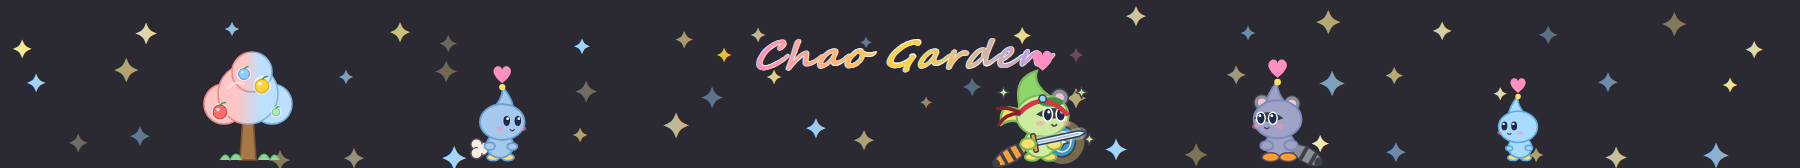
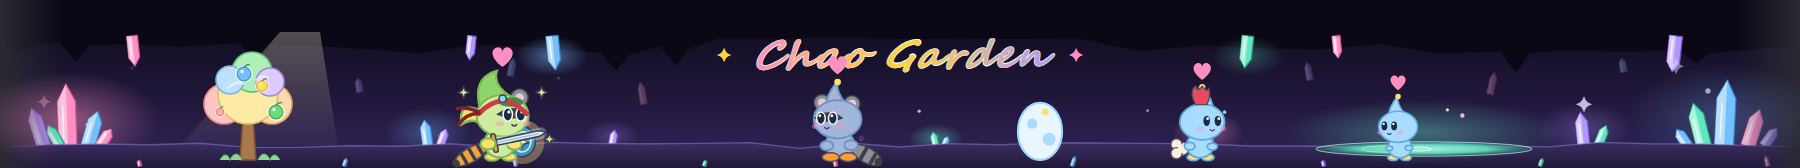
Crystal cave garden (1.1.0)
The chao now live in a glowing crystal cave instead of on plain stars:
soft-lit crystal clusters, a light beam on the fruit tree, a glowing
pool, drips of light and rising motes. The scenery is one picture built
once (hooks/scenery.ts), with about as many moving parts as the old stars.

diff --git a/hooks/scenery.ts b/hooks/scenery.ts
@@ -1,0 +1,264 @@
+// The place the chao live in, drawn behind everything else in the band: one 900 x 84 picture, built once and never
+// redrawn (see the flicker rule). Only about y 20 to 80 shows; the chao stand with their feet on y 80, so the floor's
+// top edge sits a little above that and they walk on it.
+//
+// The Neutral garden: a glowing crystal cave. Pink, blue, purple and aqua crystals glow softly from the walls and
+// floor, a few hang from the ceiling and drip light now and then, a pool glows on the right, a soft beam of light
+// falls on the fruit tree through a crack, and tiny motes of light float up. The middle (where fights play and the
+// title sits) is kept low and quiet.
+
+const W = 900
+const H = 84
+// the floor's top edge: the crystals' bases tuck behind it
+const FLOOR = 72
+
+type Hue = { light: string; mid: string; dark: string }
+const PINK: Hue = { light: '#ffd1e6', mid: '#ff8fc0', dark: '#c95a91' }
+const BLUE: Hue = { light: '#cfe8ff', mid: '#74c0fc', dark: '#3f7fc4' }
+const PURPLE: Hue = { light: '#e5dbff', mid: '#b197fc', dark: '#7650d0' }
+const AQUA: Hue = { light: '#c3fae8', mid: '#63e6be', dark: '#24a07c' }
+
+const n = (v: number) => Math.round(v * 10) / 10
+
+// Deterministic pseudo-random, so the picture is the same every time it is built.
+const rand = (i: number) => {
+  const x = Math.sin(i * 7919 + 1013) * 104729
+  return x - Math.floor(x)
+}
+
+// One crystal: a six-sided prism standing on (x, y), `h` tall and `w` wide, tilted by `tilt` degrees, with a lit left
+// face, a shaded right face and a bright edge. `down` hangs it from the ceiling instead.
+const crystal = (x: number, y: number, h: number, w: number, tilt: number, c: Hue, down = false) => {
+  const s = down ? -1 : 1
+  const shoulder = h * 0.72
+  const half = w / 2
+  const body = `M${-half},0 L${-half},${n(-shoulder * s)} L0,${n(-h * s)} L${half},${n(-shoulder * s)} L${half},0 Z`
+  const lit = `M${-half},0 L${-half},${n(-shoulder * s)} L0,${n(-h * s)} L0,0 Z`
+  const shine = `M${n(-half * 0.45)},${n(-h * 0.12 * s)} L${n(-half * 0.45)},${n(-shoulder * 0.9 * s)}`
+  return (
+    `<g transform="translate(${x},${y}) rotate(${tilt})">` +
+    `<path d="${body}" fill="${c.mid}" stroke="${c.dark}" stroke-width="0.6" stroke-linejoin="round"/>` +
+    `<path d="${lit}" fill="${c.light}" opacity="0.75"/>` +
+    `<path d="${shine}" stroke="#ffffff" stroke-width="0.7" stroke-linecap="round" opacity="0.8"/>` +
+    `</g>`
+  )
+}
+
+// A cluster of crystals around (x, FLOOR): [offset, height, width, tilt, hue] each.
+type Shard = [number, number, number, number, Hue]
+const cluster = (x: number, shards: Shard[], y = FLOOR + 1) => shards.map(([dx, h, w, t, c]) => crystal(x + dx, y, h, w, t, c)).join('')
+
+// A soft glow behind a cluster. The pulsing ones breathe slowly, each on its own beat.
+const glow = (x: number, y: number, rx: number, ry: number, grad: string, pulse?: { dur: number; begin: number }) =>
+  `<ellipse cx="${x}" cy="${y}" rx="${rx}" ry="${ry}" fill="url(#${grad})" opacity="0.7">` +
+  (pulse ? `<animate attributeName="opacity" values="0.45;0.95;0.45" dur="${pulse.dur}s" begin="${-pulse.begin}s" repeatCount="indefinite"/>` : '') +
+  `</ellipse>`
+
+const defs =
+  `<defs>` +
+  // the cave wall, darker up by the ceiling
+  `<linearGradient id="cv-wall" x1="0" y1="0" x2="0" y2="1"><stop offset="0.15" stop-color="#110c20"/><stop offset="0.6" stop-color="#21183b"/><stop offset="0.86" stop-color="#2b2050"/></linearGradient>` +
+  `<linearGradient id="cv-floor" x1="0" y1="0" x2="0" y2="1"><stop offset="0" stop-color="#3b2f63"/><stop offset="1" stop-color="#1f1736"/></linearGradient>` +
+  // the edges fade out, so the cave has no hard side if the band is wider than the picture
+  `<linearGradient id="cv-sides" x1="0" y1="0" x2="1" y2="0"><stop offset="0" stop-color="#000"/><stop offset="0.035" stop-color="#fff"/><stop offset="0.965" stop-color="#fff"/><stop offset="1" stop-color="#000"/></linearGradient>` +
+  `<mask id="cv-fade"><rect width="${W}" height="${H}" fill="url(#cv-sides)"/></mask>` +
+  `<linearGradient id="cv-beam" x1="0" y1="0" x2="0" y2="1"><stop offset="0" stop-color="#fff6d6" stop-opacity="0.32"/><stop offset="1" stop-color="#fff6d6" stop-opacity="0"/></linearGradient>` +
+  [
+    ['pink', PINK.mid],
+    ['blue', BLUE.mid],
+    ['purple', PURPLE.mid],
+    ['aqua', AQUA.mid],
+  ]
+    .map(([id, col]) => `<radialGradient id="cv-g${id}"><stop offset="0" stop-color="${col}" stop-opacity="0.55"/><stop offset="1" stop-color="${col}" stop-opacity="0"/></radialGradient>`)
+    .join('') +
+  `<radialGradient id="cv-pool" cx="0.5" cy="0.5" r="0.5"><stop offset="0" stop-color="#b8fff0"/><stop offset="0.6" stop-color="#63e6be"/><stop offset="1" stop-color="#2fae8a" stop-opacity="0.2"/></radialGradient>` +
+  `</defs>`
+
+// The ceiling: dark rock along the top with a few lumps hanging down (short over the title in the middle).
+const ceiling = (() => {
+  const pts: string[] = [`M0,0`, `L0,20`]
+  for (let x = 0; x <= W; x += 30) {
+    const mid = x > 330 && x < 570
+    const y = (mid ? 17 : 21) + rand(x) * (mid ? 3 : 6)
+    pts.push(`L${x},${n(y)}`)
+    if (!mid && rand(x + 5) > 0.55) pts.push(`L${x + 8},${n(y + 5 + rand(x + 9) * 6)}`, `L${x + 15},${n(y + 1)}`)
+  }
+  pts.push(`L${W},0 Z`)
+  return `<path d="${pts.join(' ')}" fill="#0b0816"/>`
+})()
+
+// The floor, with an uneven top edge and a pale rim where the crystal light catches it.
+const floor = (() => {
+  const top: string[] = []
+  for (let x = 0; x <= W; x += 25) top.push(`${x},${n(FLOOR + rand(x + 300) * 3.2 - 1)}`)
+  return (
+    `<path d="M0,${H} L${top.map(p => `L${p}`).join(' ').slice(1)} L${W},${H} Z" fill="url(#cv-floor)"/>` +
+    `<polyline points="${top.join(' ')}" fill="none" stroke="#8a78c9" stroke-width="0.7" opacity="0.55"/>`
+  )
+})()
+
+// Dim crystals set into the back wall, far away.
+const wallGems = [
+  [180, 46, PURPLE],
+  [255, 38, BLUE],
+  [322, 52, PINK],
+  [598, 50, AQUA],
+  [655, 40, PURPLE],
+  [745, 47, PINK],
+  [812, 36, BLUE],
+]
+  .map(([x, y, c], i) => `<g opacity="0.28">${crystal(x as number, y as number, 7 + (i % 3) * 2, 3.2, i % 2 ? 12 : -10, c as Hue)}</g>`)
+  .join('')
+
+// The crystals that grow from the floor: big clusters at both ends, small ones in between, only tiny ones in the
+// middle where the fights play.
+const floorCrystals =
+  cluster(34, [
+    [-12, 20, 7, -18, PURPLE],
+    [10, 18, 7, 16, BLUE],
+    [0, 31, 9, -2, PINK],
+    [-4, 12, 5, -30, AQUA],
+    [16, 10, 5, 34, PINK],
+  ]) +
+  cluster(214, [
+    [0, 13, 5, -8, BLUE],
+    [6, 9, 4, 20, PURPLE],
+  ]) +
+  cluster(306, [[0, 8, 3.6, 10, PURPLE]]) +
+  cluster(468, [
+    [0, 7, 3.2, -12, AQUA],
+    [4, 5, 2.8, 22, BLUE],
+  ]) +
+  cluster(604, [
+    [0, 11, 4.4, 6, PINK],
+    [-5, 7, 3.4, -24, PURPLE],
+  ]) +
+  cluster(792, [
+    [0, 17, 6, -6, PURPLE],
+    [7, 11, 4.4, 22, AQUA],
+  ]) +
+  cluster(862, [
+    [-10, 22, 7.5, -14, AQUA],
+    [12, 19, 7, 18, PINK],
+    [0, 33, 9.5, 3, BLUE],
+    [20, 11, 5, 36, PURPLE],
+    [-18, 10, 5, -34, BLUE],
+  ])
+
+// Crystals hanging from the ceiling (none over the title).
+const HANGING: [number, number, number, Hue][] = [
+  [66, 18, 15, PINK],
+  [236, 18, 12, PURPLE],
+  [276, 18, 17, BLUE],
+  [624, 18, 16, AQUA],
+  [668, 18, 11, PINK],
+  [838, 18, 18, PURPLE],
+]
+const hanging = HANGING.map(([x, y, h, c], i) => crystal(x, y, h, h * 0.36, i % 2 ? 6 : -6, c, true)).join('')
+
+// The glowing pool on the right, sunk into the floor just behind where the chao walk, with rings spreading out now
+// and then.
+const POOL_X = 712
+const pool =
+  glow(POOL_X, 66, 70, 16, 'cv-gaqua', { dur: 5, begin: 1.2 }) +
+  `<ellipse cx="${POOL_X}" cy="74.5" rx="54" ry="3.6" fill="url(#cv-pool)" opacity="0.9"/>` +
+  `<ellipse cx="${POOL_X}" cy="74.5" rx="54" ry="3.6" fill="none" stroke="#c3fae8" stroke-width="0.5" opacity="0.7"/>` +
+  [0, 1.5, 3]
+    .map(
+      (b, i) =>
+        `<ellipse cx="${POOL_X - 20 + i * 18}" cy="74.5" rx="2" ry="0.6" fill="none" stroke="#ffffff" stroke-width="0.5" opacity="0">` +
+        `<animate attributeName="rx" values="2;18" dur="4.5s" begin="${b}s" repeatCount="indefinite"/>` +
+        `<animate attributeName="ry" values="0.6;2.4" dur="4.5s" begin="${b}s" repeatCount="indefinite"/>` +
+        `<animate attributeName="opacity" values="0.9;0" dur="4.5s" begin="${b}s" repeatCount="indefinite"/></ellipse>`,
+    )
+    .join('')
+
+// The soft beam of light that falls on the fruit tree (the tree stands at about x 124).
+const beam =
+  `<path d="M140,16 L160,16 L170,80 L84,80 Z" fill="url(#cv-beam)">` +
+  `<animate attributeName="opacity" values="0.7;1;0.7" dur="7s" repeatCount="indefinite"/></path>` +
+  `<ellipse cx="126" cy="78" rx="38" ry="4" fill="#8fd694" opacity="0.35"/>`
+
+// Glows behind the clusters, breathing slowly.
+const glows =
+  glow(34, 60, 46, 24, 'cv-gpink', { dur: 4.6, begin: 0 }) +
+  glow(214, 66, 22, 12, 'cv-gblue', { dur: 5.2, begin: 2.1 }) +
+  glow(306, 68, 14, 8, 'cv-gpurple', { dur: 6, begin: 3.3 }) +
+  glow(468, 69, 14, 7, 'cv-gaqua', { dur: 5.6, begin: 1.4 }) +
+  glow(604, 66, 18, 10, 'cv-gpink', { dur: 4.9, begin: 0.7 }) +
+  glow(792, 64, 24, 13, 'cv-gpurple', { dur: 5.4, begin: 2.6 }) +
+  glow(862, 58, 48, 26, 'cv-gblue', { dur: 4.4, begin: 1.8 }) +
+  glow(276, 28, 18, 10, 'cv-gblue', { dur: 6.2, begin: 0.4 }) +
+  glow(624, 28, 18, 10, 'cv-gaqua', { dur: 5.8, begin: 2.9 })
+
+// Little ✦ glints on the tips of the big crystals, twinkling like the old stars.
+const GLINTS: [number, number, string][] = [
+  [34, 41, '#ffffff'],
+  [22, 54, '#ffd1e6'],
+  [862, 40, '#ffffff'],
+  [851, 52, '#c3fae8'],
+  [214, 60, '#cfe8ff'],
+  [792, 56, '#e5dbff'],
+  [604, 62, '#ffd1e6'],
+  [276, 37, '#cfe8ff'],
+  [838, 37, '#e5dbff'],
+]
+const glints = GLINTS.map(
+  ([x, y, c], i) =>
+    `<text x="${x}" y="${y}" font-size="${7 + (i % 3) * 2}" fill="${c}" text-anchor="middle" opacity="0">✦` +
+    `<animate attributeName="opacity" values="0;1;0;0" keyTimes="0;0.15;0.3;1" dur="${n(3 + rand(i + 50) * 3)}s" begin="${n(rand(i + 60) * 4)}s" repeatCount="indefinite"/></text>`,
+).join('')
+
+// Drops of light that fall from the hanging crystals now and then and land on the floor with a tiny splash.
+const drips = HANGING.filter((_, i) => i % 2 === 0 || i === 3)
+  .map(([x, y, h, c], i) => {
+    const from = y + h + 1
+    const dur = n(6 + rand(i + 80) * 4)
+    const begin = n(rand(i + 90) * 6)
+    return (
+      `<circle cx="${x}" cy="${from}" r="1.1" fill="${c.light}" opacity="0">` +
+      `<animate attributeName="cy" values="${from};${from};${FLOOR + 1}" keyTimes="0;0.55;0.75" dur="${dur}s" begin="${begin}s" repeatCount="indefinite"/>` +
+      `<animate attributeName="opacity" values="0;1;1;0;0" keyTimes="0;0.3;0.74;0.76;1" dur="${dur}s" begin="${begin}s" repeatCount="indefinite"/></circle>` +
+      `<ellipse cx="${x}" cy="${FLOOR + 1}" rx="1" ry="0.4" fill="none" stroke="${c.light}" stroke-width="0.5" opacity="0">` +
+      `<animate attributeName="rx" values="1;1;5" keyTimes="0;0.75;0.9" dur="${dur}s" begin="${begin}s" repeatCount="indefinite"/>` +
+      `<animate attributeName="opacity" values="0;0;1;0" keyTimes="0;0.75;0.77;0.9" dur="${dur}s" begin="${begin}s" repeatCount="indefinite"/></ellipse>`
+    )
+  })
+  .join('')
+
+// Tiny motes of light drifting up from the floor and fading.
+const MOTE_HUES = [PINK.light, BLUE.light, PURPLE.light, AQUA.light, '#fff3bf']
+const motes = Array.from({ length: 12 }, (_, i) => {
+  const x = n(40 + ((i + rand(i + 120)) / 12) * 820)
+  const dur = n(7 + rand(i + 130) * 5)
+  const begin = n(-rand(i + 140) * dur)
+  const rise = n(28 + rand(i + 150) * 20)
+  const sway = n((rand(i + 160) - 0.5) * 14)
+  return (
+    `<circle cx="${x}" cy="${FLOOR}" r="${n(0.7 + rand(i + 170) * 0.7)}" fill="${MOTE_HUES[i % MOTE_HUES.length]}" opacity="0">` +
+    `<animateTransform attributeName="transform" type="translate" values="0 0;${sway} ${-rise / 2};0 ${-rise}" dur="${dur}s" begin="${begin}s" repeatCount="indefinite"/>` +
+    `<animate attributeName="opacity" values="0;0.9;0" dur="${dur}s" begin="${begin}s" repeatCount="indefinite"/></circle>`
+  )
+}).join('')
+
+// Small shards scattered along the front of the floor.
+const pebbles = [70, 172, 258, 352, 418, 536, 662, 770, 884]
+  .map((x, i) => `<g opacity="0.85">${crystal(x, 83, 3 + (i % 3), 1.8, i % 2 ? 18 : -14, [PINK, BLUE, PURPLE, AQUA][i % 4] as Hue)}</g>`)
+  .join('')
+
+const cave = (): string =>
+  `<svg xmlns="http://www.w3.org/2000/svg" width="${W}" height="${H}" viewBox="0 0 ${W} ${H}">` +
+  defs +
+  // the still parts, with their sides faded out
+  `<g mask="url(#cv-fade)"><rect width="${W}" height="${H}" fill="url(#cv-wall)"/>${wallGems}${ceiling}</g>` +
+  glows +
+  beam +
+  `<g mask="url(#cv-fade)">${floorCrystals}${floor}${hanging}${pebbles}</g>` +
+  pool +
+  glints +
+  drips +
+  motes +
+  `</svg>`
+
+// Built once: the scenery never changes while a chat is open.
+export const CAVE_SVG = cave()

diff --git a/hooks/register.tsx b/hooks/register.tsx
@@ -63,6 +63,7 @@ import {
 } from './battle'
 import type { Battle, BattleSave, Corruption } from './battle'
 import { challengerSvg, fightSvg } from './fight'
+import { CAVE_SVG } from './scenery'
 
 // How many rows tall the band is (what the Gmail box used to hold up: on the desktop its border is a thin line,
 // so it was about 3 rows, marginTop 2 plus one text row). Raise it to make the band taller.
@@ -443,36 +444,6 @@ const hatchedNames = (gd: Garden) =>
     .map(c => c.name)
     .join(', ') || 'only eggs so far'
 
-// Deterministic pseudo-random so the drawing is stable between redraws.
-const rand = (i: number) => {
-  const x = Math.sin(i * 9301 + 49297) * 233280
-  return x - Math.floor(x)
-}
-
-// Twinkling stars behind the garden, on a jittered grid (cells, each with one star placed randomly inside) so they
-// fill evenly.
-const STAR_COLORS = ['#ffec99', '#fff3bf', '#a5d8ff']
-const starsSvg = (width: number, height: number, density: number): string => {
-  const cols = Math.max(6, Math.round(width / density))
-  const rows = Math.max(1, Math.round(height / 28))
-  const items: string[] = []
-  for (let i = 0; i < cols * rows; i++) {
-    const cellW = width / cols
-    const cellH = height / rows
-    const x = Math.round((i % cols + 0.15 + rand(i + 1) * 0.7) * cellW)
-    const y = Math.round((Math.floor(i / cols) + 0.3 + rand(i + 101) * 0.6) * cellH) + 4
-    const size = 8 + Math.round(rand(i + 201) * 10)
-    const dur = (2 + rand(i + 301) * 3).toFixed(1)
-    const begin = (rand(i + 401) * 3).toFixed(1)
-    items.push(
-      `<text x="${x}" y="${y}" font-size="${size}" fill="${STAR_COLORS[i % STAR_COLORS.length]}" text-anchor="middle">\u2726` +
-        `<animate attributeName="opacity" values="0.1;1;0.1" dur="${dur}s" begin="${begin}s" repeatCount="indefinite"/></text>`,
-    )
-  }
-  return `<svg xmlns="http://www.w3.org/2000/svg" width="${width}" height="${height}" viewBox="0 0 ${width} ${height}">${items.join('')}</svg>`
-}
-// The stars never change, so they are built once.
-const STARS_SVG = starsSvg(900, 84, 52)
 
 // "Chao Garden" in cute script across the top of the band.
 const title = (): string =>
@@ -945,7 +916,7 @@ export const register: Register = (on, options) => {
     return withButtons(Box, await next(e), buttons)
   })
 
-  // The garden band above the typing box (desktop app only): twinkling stars, the title, the tree, each chao, the day's
+  // The garden band above the typing box (desktop app only): the crystal cave (scenery.ts), the title, the tree, each chao, the day's
   // challenger and any fight. With /chao garden off it shows nothing.
   on('ui.render', { component: 'AbovePrompt' }, async ($, e, next) => {
     if (e.props.hasSurvey || e.surface !== 'desktop') return next(e)
@@ -982,7 +953,7 @@ export const register: Register = (on, options) => {
     return (
       <Box position="relative" overflow="hidden" flexDirection="column">
         <Box position="absolute" top={-1} left={0}>
-          <Svg source={STARS_SVG} alt="Twinkling stars" width={900} height={84} isInteractive />
+          <Svg source={CAVE_SVG} alt="A glowing crystal cave" width={900} height={84} isInteractive />
         </Box>
         {/* The title is its own picture, so it can step aside while a fight plays in the middle of the band. */}
         {fightPic ? null : (

diff --git a/README.md b/README.md
@@ -1,8 +1,8 @@
 # Claude Chao Garden
 
-![The chao garden above the typing box: twinkling stars, a fruit tree and four chao](preview.png)
+![The chao garden above the typing box: a glowing crystal cave with a fruit tree, an egg and four chao](preview.png)
 
-A little chao garden that lives above the typing box in the Claude desktop app. Chao hatch from eggs, grow up and evolve from the work Claude does in your chats, find a class, and fight corrupted omochao right on the garden. It is a Claude Code mod: it runs on your own computer and adds nothing to what is sent to Claude.
+A little chao garden that lives above the typing box in the Claude desktop app. The chao live in a glowing crystal cave, with soft-lit crystals, a pool and floating motes of light. Chao hatch from eggs, grow up and evolve from the work Claude does in your chats, find a class, and fight corrupted omochao right on the garden. It is a Claude Code mod: it runs on your own computer and adds nothing to what is sent to Claude.
 
 ## What happens in the garden
 
